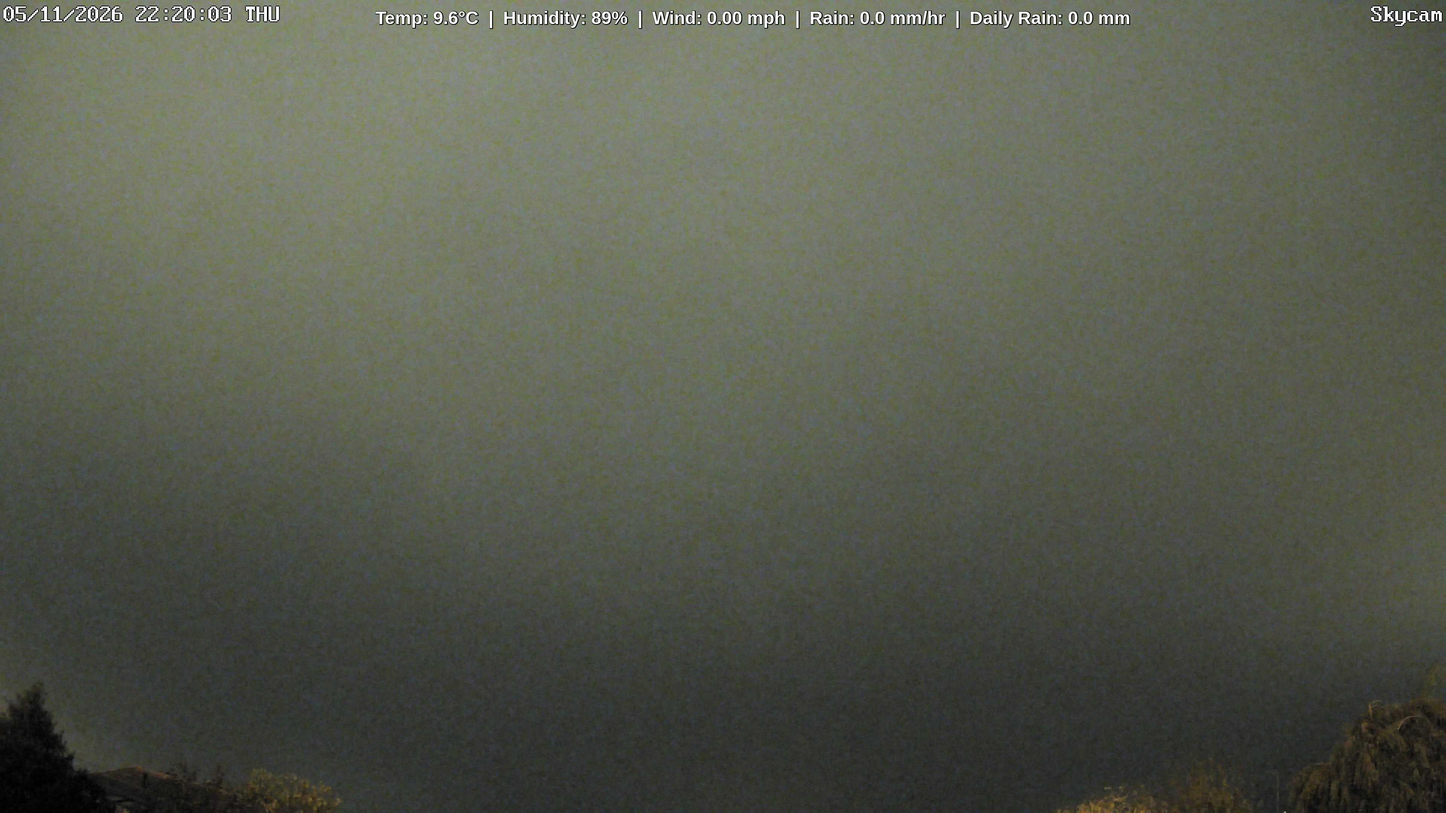
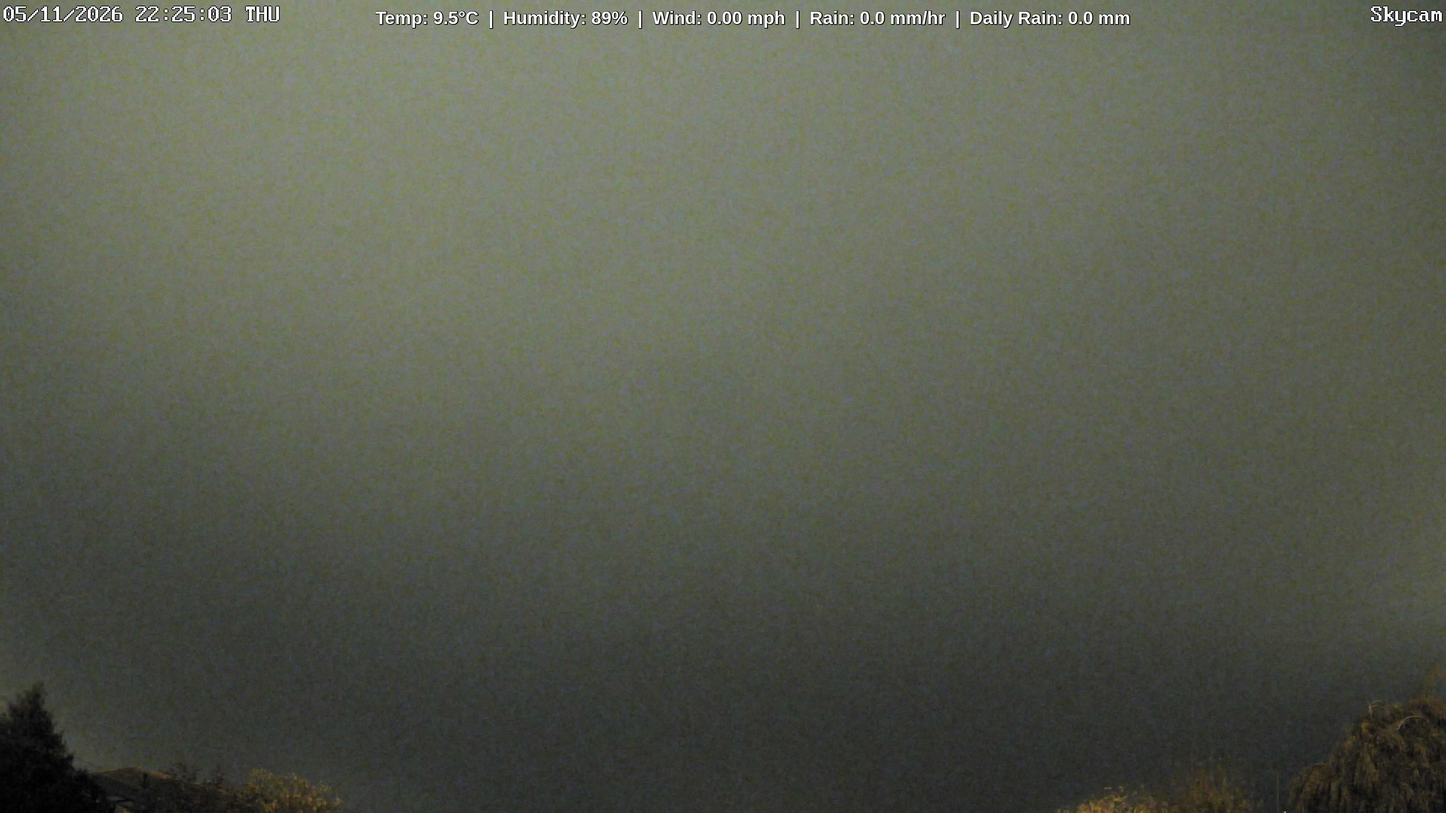
Update weather cam image with synchronized dual-layer weather metrics

Changed region(s): [[0.125, 0.0, 0.1562, 0.031]]

diff --git a/index.html b/index.html
@@ -32,7 +32,7 @@
 </head>
 <body>
     <img id="weathercam" alt="Live Weather Snapshot">
-    <div class="banner">Temp: 9.6°C  |  Humidity: 89%  |  Wind: 0.00 mph  |  Rain: 0.0 mm/hr  |  Daily Rain: 0.0 mm</div>
+    <div class="banner">Temp: 9.5°C  |  Humidity: 89%  |  Wind: 0.00 mph  |  Rain: 0.0 mm/hr  |  Daily Rain: 0.0 mm</div>
 
     <script>
         // Shatter mobile cache engines by appending a live unique runtime timestamp 
